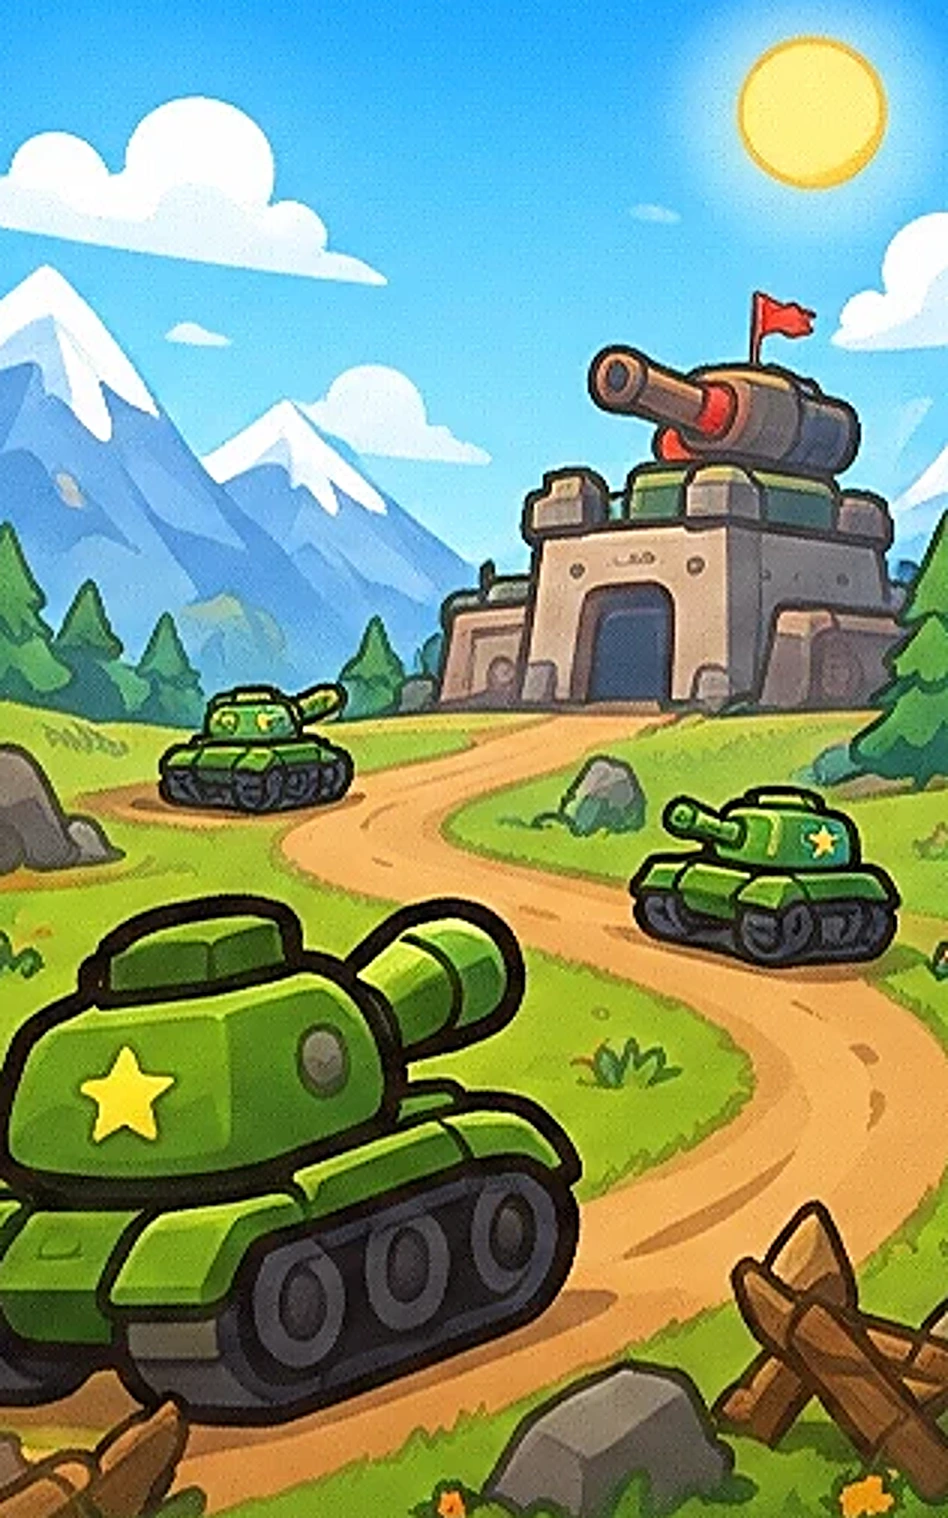
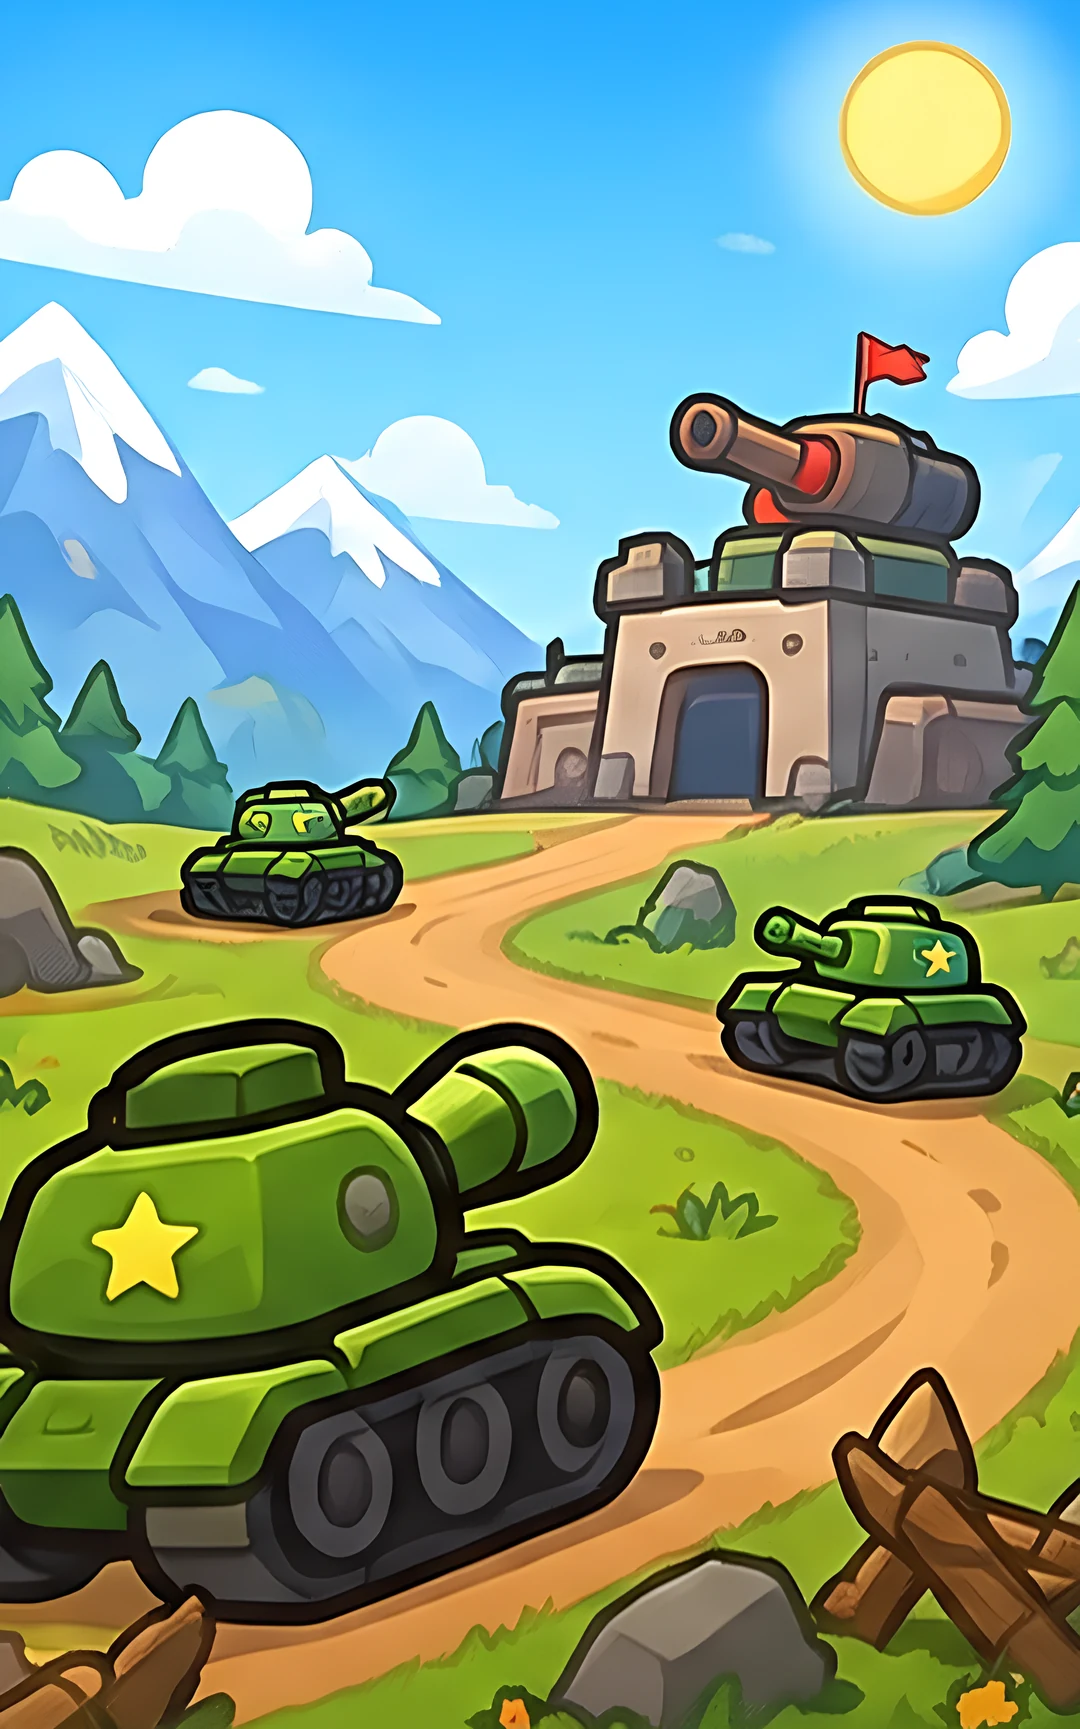
VER 75: sharper loading background

diff --git a/index.html b/index.html
@@ -2,7 +2,7 @@
 <html lang="ru">
 <head>
 <script>/* Telegram держит старый index.html в кэше. Если на сайте версия новее (ver.txt) — перезагружаемся с ?v=, это обходит кэш. Меняй VER и ver.txt вместе при выкладке */
-const VER = '74';
+const VER = '75';
 fetch('ver.txt?' + Date.now(), { cache: 'no-store' }).then(r => r.ok ? r.text() : '').then(v => { v = v.trim(); if (!v || v === VER) return; try { if (sessionStorage.vr === v) return; sessionStorage.vr = v; } catch (e) {} const q = new URLSearchParams(location.search); q.set('v', v); location.replace(location.pathname + '?' + q + location.hash); }).catch(() => {});
 </script>
 <meta charset="utf-8">
@@ -97,7 +97,7 @@ nav .dot{position:absolute;top:2px;right:10px;width:12px;height:12px;border-radi
 .wmap{position:relative;border:3px solid var(--ink);border-radius:22px;margin:6px 0 16px;overflow:hidden;box-shadow:0 5px 0 rgba(20,30,45,.35)}
 .logo{display:block;width:min(62%,250px);margin:-4px auto -14px;position:relative;z-index:2;filter:drop-shadow(0 5px 0 rgba(0,0,0,.25));pointer-events:none}
 .logot{text-align:center;margin:6px auto 8px;position:relative;z-index:2;pointer-events:none;line-height:.92;font-weight:900;letter-spacing:1px}.logot b{display:block;font-size:42px;color:#ffd23f;-webkit-text-stroke:2px #2b2b2b;paint-order:stroke fill;text-shadow:0 4px 0 #2b2b2b,0 6px 0 rgba(0,0,0,.2)}.logot b+b{font-size:34px;color:#8fd14f}.logot img{width:min(62vw,230px);display:block;margin:0 auto;filter:drop-shadow(0 4px 0 rgba(0,0,0,.25))}
-#boot{position:fixed;inset:0;z-index:999;background:#3d7a2a url(img/bg_load.webp) center/cover;display:flex;justify-content:center;align-items:flex-start;transition:opacity .5s}#boot img{width:min(82vw,380px);margin-top:9vh;filter:drop-shadow(0 6px 0 rgba(0,0,0,.35))}#boot.out{opacity:0;pointer-events:none}
+#boot{position:fixed;inset:0;z-index:999;background:#3d7a2a url(img/bg_load.webp?v=2) center/cover;display:flex;justify-content:center;align-items:flex-start;transition:opacity .5s}#boot img{width:min(82vw,380px);margin-top:9vh;filter:drop-shadow(0 6px 0 rgba(0,0,0,.35))}#boot.out{opacity:0;pointer-events:none}
 .rb .pr img{width:14px;height:14px;vertical-align:-2px}.vi{width:26px;height:26px;vertical-align:middle}
 .reg{position:relative;overflow:hidden}
 .reg+.reg{border-top:3px dashed rgba(43,33,24,.4)}
